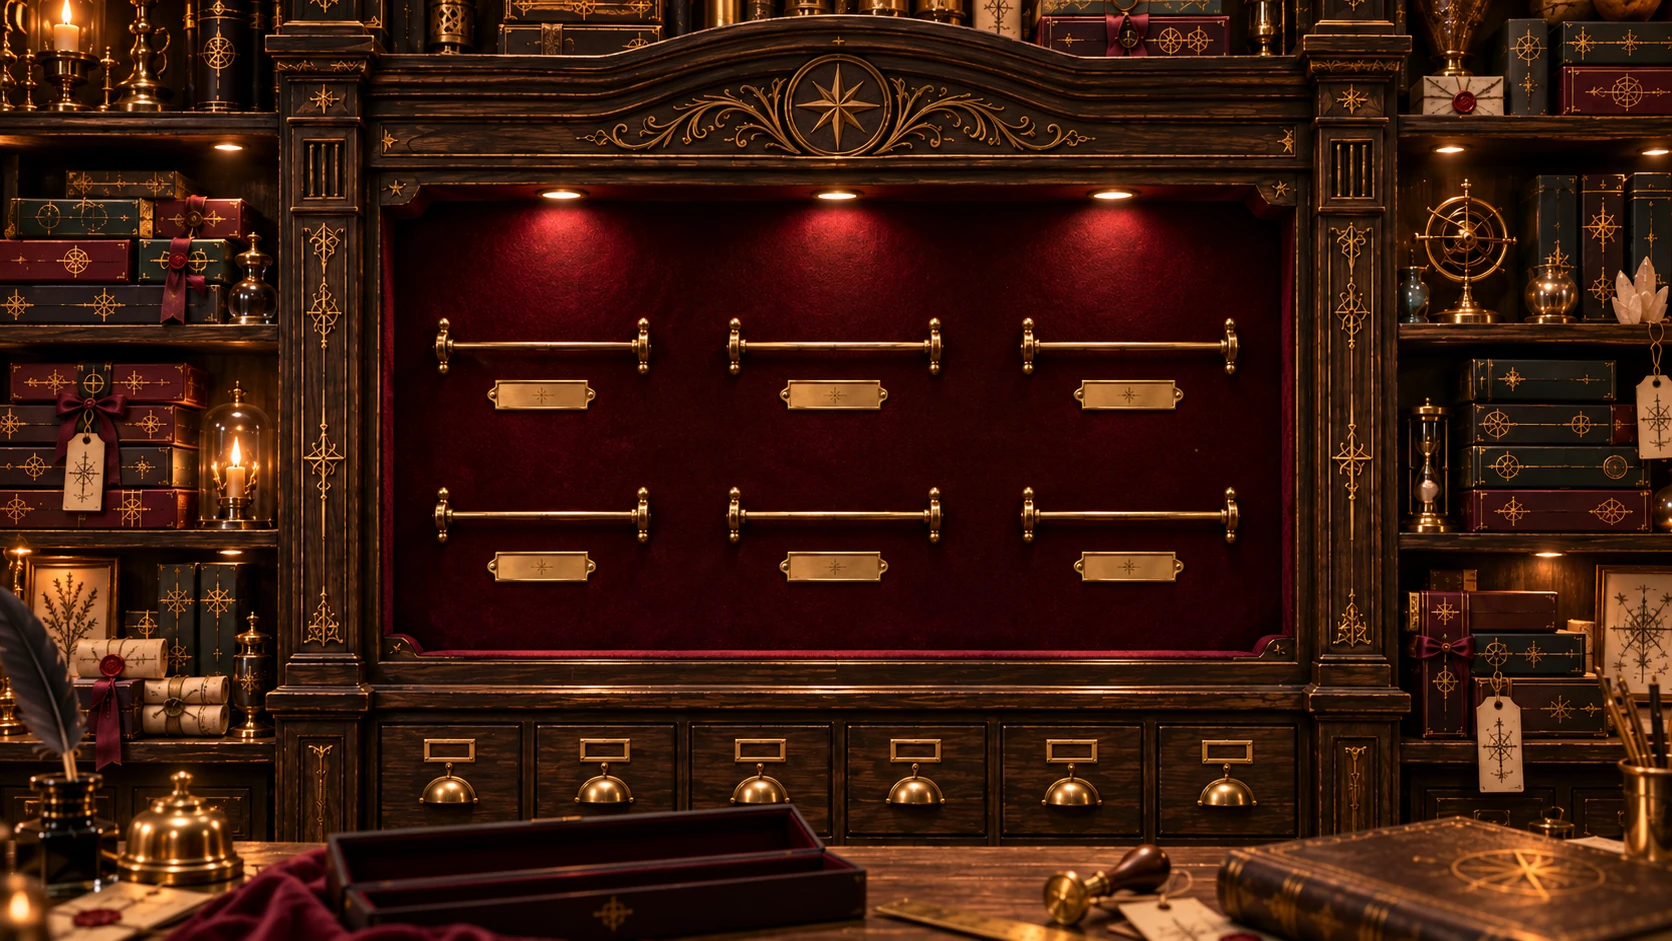
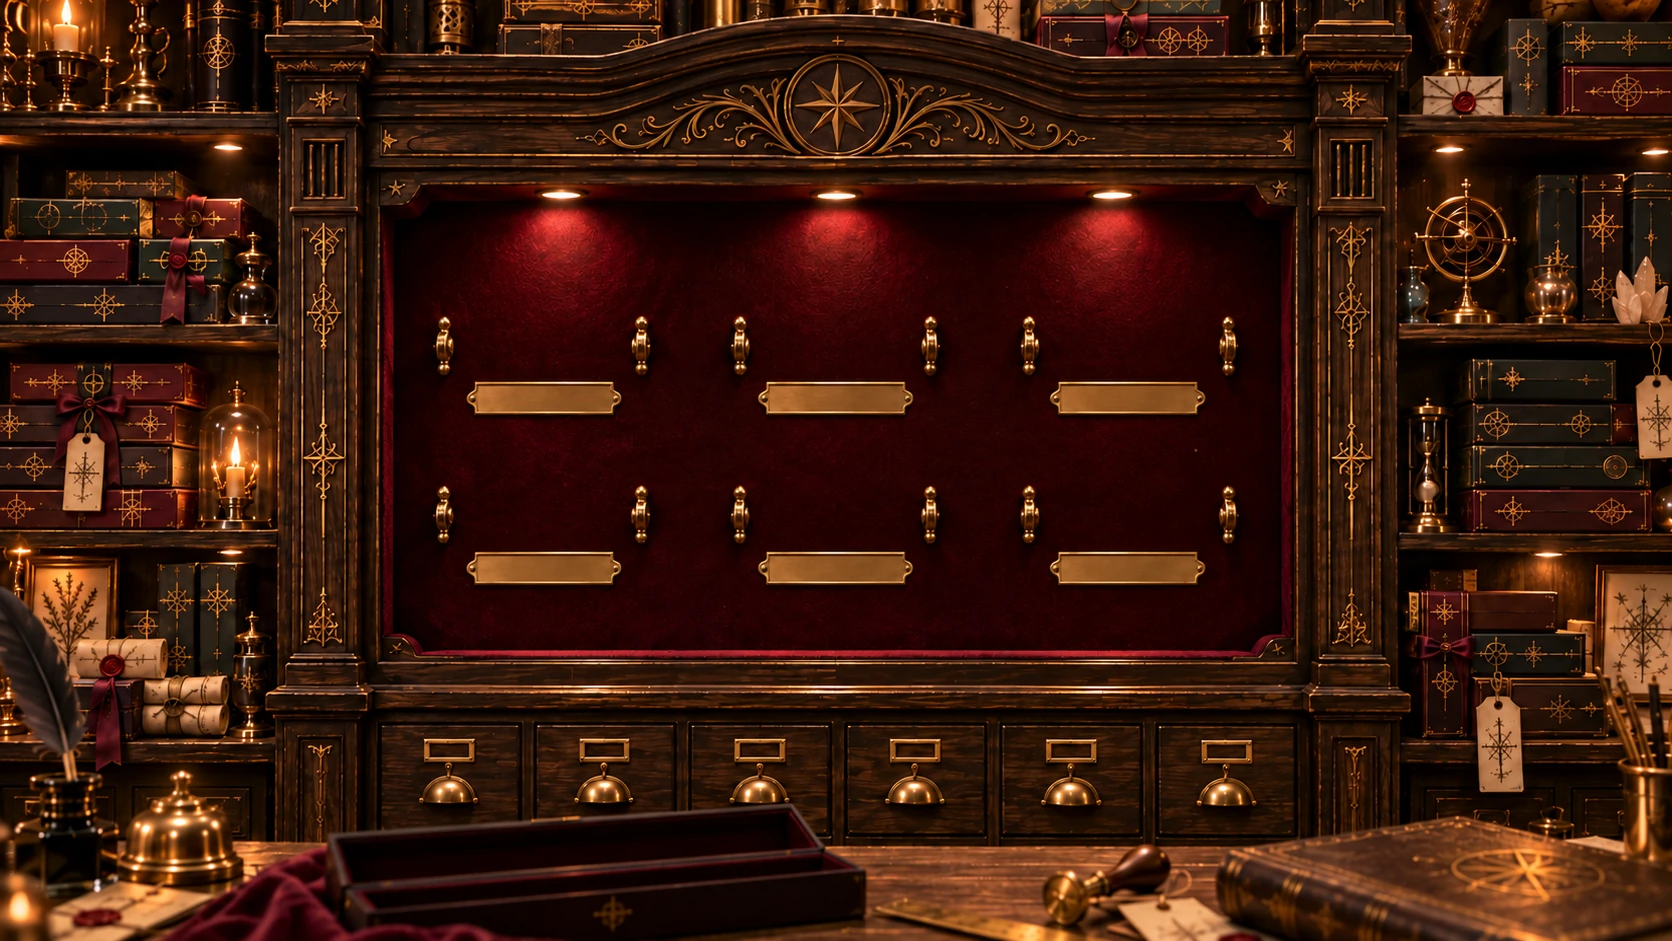
feat: finalize wand room product placement

diff --git a/src/components/rooms/WandRoom.tsx b/src/components/rooms/WandRoom.tsx
@@ -1,0 +1,33 @@
+"use client";
+
+import { useShop } from "@/components/shop/shop-provider";
+import { wands } from "@/data/wands";
+
+// Positions are percentages of the 1672 × 941 room artwork, aligned to the side supports.
+const WAND_PLACEMENTS: Record<string, { left: string; top: string; width: string }> = {
+  "varita-sombria": { left: "32.4%", top: "36.4%", width: "11.0%" },
+  "musgo-cambiante": { left: "49.8%", top: "36.4%", width: "10.6%" },
+  "aguja-del-alba": { left: "67.5%", top: "36.6%", width: "11.5%" },
+  "laurel-de-la-botica": { left: "32.4%", top: "54.6%", width: "11.3%" },
+  "vigilia-fosil": { left: "49.9%", top: "54.6%", width: "10.65%" },
+  "canto-de-espejo": { left: "67.55%", top: "54.7%", width: "11.1%" },
+};
+
+export function WandRoom() {
+  const { selectProduct } = useShop();
+
+  return (
+    <div className="wand-room">
+      {wands.map((wand) => (
+        <button
+          key={wand.id}
+          type="button"
+          className="wand-room__product"
+          style={{ ...WAND_PLACEMENTS[wand.id], backgroundImage: `url(${wand.image})` }}
+          aria-label={`Ver detalles de ${wand.name}`}
+          onClick={() => selectProduct(wand)}
+        />
+      ))}
+    </div>
+  );
+}

diff --git a/src/app/globals.css b/src/app/globals.css
@@ -150,6 +150,41 @@ button { font: inherit; }
   pointer-events: none;
 }
 
+.wand-room {
+  position: absolute;
+  top: 50%;
+  left: 50%;
+  width: max(100%, calc(100dvh * 1672 / 941));
+  aspect-ratio: 1672 / 941;
+  transform: translate(-50%, -50%);
+}
+
+.wand-room__product {
+  position: absolute;
+  z-index: 0;
+  aspect-ratio: 4 / 1;
+  padding: 0;
+  border: 0;
+  background: transparent center / 100% auto no-repeat;
+  cursor: pointer;
+  transform: translate(-50%, -50%);
+  transition: transform 180ms ease, filter 180ms ease;
+}
+
+.wand-room__product:hover {
+  filter: brightness(1.12) drop-shadow(0 0 5px rgba(235, 190, 105, 0.45));
+  transform: translate(-50%, -50%) scale(1.04);
+}
+
+.wand-room__product:focus-visible {
+  outline: 2px solid var(--cream);
+  outline-offset: 3px;
+}
+
+@media (prefers-reduced-motion: reduce) {
+  .wand-room__product { transition: none; }
+}
+
 .shop-interface {
   position: absolute;
   inset: 0;

diff --git a/src/components/shop/ShopExperience.tsx b/src/components/shop/ShopExperience.tsx
@@ -2,6 +2,7 @@
 
 import { useShop, type RoomId } from "@/components/shop/shop-provider";
 import { ShopInterface } from "@/components/shop/ShopInterface";
+import { WandRoom } from "@/components/rooms/WandRoom";
 
 const ROOM_DETAILS: Record<RoomId, { subtitle: string; title: string; scene: string }> = {
   wands: { subtitle: "PRIMER SALÓN", title: "VARITAS", scene: "/scenes/wands-room.webp" },
@@ -16,6 +17,7 @@ export function ShopExperience() {
   return (
     <main className="shop-experience" aria-label={`Sala actual: ${room.title}`}>
       <div className="shop-experience__scene" style={{ backgroundImage: `url(${room.scene})` }} aria-hidden="true" />
+      {currentRoom === "wands" && <WandRoom />}
       <ShopInterface subtitle={room.subtitle} title={room.title} />
     </main>
   );

diff --git a/docs/DEVELOPMENT_LOG.md b/docs/DEVELOPMENT_LOG.md
@@ -1,5 +1,29 @@
 # Development log
 
+## 2026-10-21 - Wands room alignment
+
+- Integrated the improved Wands room background: central support bars were removed from the artwork, and the brass nameplates were enlarged and cleaned. Visually reviewed and refined the six wand positions against the remaining side supports, including the portrait-canvas Canto de Espejo.
+- Files changed: `src/components/rooms/WandRoom.tsx`, `docs/PROJECT_STATUS.md`, and `docs/DEVELOPMENT_LOG.md`; the updated `public/scenes/wands-room.webp` was supplied beforehand.
+- Validation: `npm.cmd run lint`, `npx.cmd tsc --noEmit`, and `git diff --check`.
+
+## 2026-10-20 - Refine wand support alignment
+
+- Raised the wand placements slightly so they sit visually on the supports instead of covering them.
+- Files changed: `src/components/rooms/WandRoom.tsx`, `docs/PROJECT_STATUS.md`, and `docs/DEVELOPMENT_LOG.md`.
+- Validation: `npm.cmd run lint`, `npx.cmd tsc --noEmit`, and `git diff --check`.
+
+## 2026-10-20 - Remove wand glass overlay
+
+- Removed the provisional glass after visual review: it did not align precisely with the display frame and reduced visual consistency with the other rooms. The asset remains available.
+- Files changed: `src/components/rooms/WandRoom.tsx`, `src/app/globals.css`, `docs/PROJECT_STATUS.md`, and `docs/DEVELOPMENT_LOG.md`.
+- Validation: `npm.cmd run lint`, `npx.cmd tsc --noEmit`, and `git diff --check`.
+
+## 2026-10-20 - Wands room products
+
+- Added six artwork-relative wand controls with hover and keyboard focus, connected to the existing product selection state. Added a provisional, switchable glass foreground for visual review.
+- Files changed: `src/components/rooms/WandRoom.tsx`, `src/components/shop/ShopExperience.tsx`, `src/app/globals.css`, `docs/PROJECT_STATUS.md`, and `docs/DEVELOPMENT_LOG.md`.
+- Validation: checked the six wand assets and glass asset; `npm.cmd run lint`, `npx.cmd tsc --noEmit`, `git diff --check`, and `npm.cmd run build`.
+
 ## 2026-10-20 - Navigation arrow alignment
 
 - Raised both navigation arrows by another 3px using their shared offset in `src/app/globals.css`; updated `docs/PROJECT_STATUS.md`.
@@ -87,3 +111,15 @@
 - Wrapped App Router content with the client provider while retaining the root layout as a Server Component.
 - Files changed: `src/components/shop/shop-provider.tsx`, `src/app/layout.tsx`, `docs/PROJECT_STATUS.md`, `docs/DECISIONS.md`, and `docs/DEVELOPMENT_LOG.md`.
 - Validation: `npm run lint`, `npx tsc --noEmit`, and `git diff --check`.
+
+## 2026-10-21 - Individual wand placement refinement
+
+- Refined individual wand widths and horizontal positions around the existing layout, including the portrait-canvas Canto de Espejo; retained the existing vertical positions and interaction behavior.
+- Files changed: `src/components/rooms/WandRoom.tsx`, `docs/PROJECT_STATUS.md`, and `docs/DEVELOPMENT_LOG.md`.
+- Validation: `npm.cmd run lint`, `npx.cmd tsc --noEmit`, and `git diff --check`.
+
+## 2026-10-22 - Approved wand placement baseline
+
+- Recorded the improved Wands background, with central support bars removed and brass nameplates enlarged and cleaned. The six wand positions were manually fine-tuned in-browser; their current values are visually approved for this stage. The next task is adding wand names to the brass nameplates.
+- Inspected `src/components/rooms/WandRoom.tsx`, its typed product data, selection state, styles, and scene integration. Updated `docs/PROJECT_STATUS.md` and `docs/DEVELOPMENT_LOG.md` without changing the room or placements.
+- Validation: `npm.cmd run lint`, `npx.cmd tsc --noEmit`, `git diff --check`, and `npm.cmd run build`.

diff --git a/docs/PROJECT_STATUS.md b/docs/PROJECT_STATUS.md
@@ -1,6 +1,6 @@
 # Project status
 
-Last updated: 2026-10-20
+Last updated: 2026-10-22
 
 ## Current phase
 
@@ -18,6 +18,7 @@ Initial application architecture and product catalog.
 - Final visual assets are available: the exterior scene, three room scenes, three product-detail backgrounds, the wand glass overlay, and all 18 product images.
 - Exterior landing, animated shop entry, and the initial Wands-room shell are implemented using the existing global shop state.
 - A reusable persistent room interface displays the room title, available navigation controls, and cart count using the UI assets.
+- The improved Wands room background removes the central support bars and enlarges and cleans the empty brass nameplates. The six wand positions were manually fine-tuned in-browser and their current placement values are visually approved for this stage; no glass overlay is rendered.
 - The reusable UI asset set is available in `public/ui/` and ready for integration:
   - `room-title.webp`: room title frame with a small subtitle zone and a larger main title zone.
   - `nav-control.webp`: side navigation frame; its directional arrow is rendered separately.
@@ -31,16 +32,18 @@ Initial application architecture and product catalog.
 
 ## Next tasks
 
-- Implement the six interactive wand products in the Wands room.
+- Add the wand names to the brass nameplates.
+- Implement the wand product detail overlay and selection transition.
 - Add directional room transitions and the remaining interior interactions.
 
 ## Current application state
 
 - The root page renders the exterior until `hasEnteredShop` is set, then renders the current room.
 - `ShopExterior` uses the exterior asset as an immersive, cover-scaled background. Its panel text uses explicit block lines and constrained percentage widths to remain within the artwork's burgundy panels, while the keyboard-accessible invisible door hotspot and `Entrar` cartouche sit over the central door.
-- `ShopExperience` maps the current room to its background and title; the persistent interface navigates instantly between rooms using global state. The cart control toggles cart state and displays its count, but the cart panel is not implemented. Products and detail overlays are not yet rendered.
+- `ShopExperience` maps the current room to its background and title; the persistent interface navigates instantly between rooms using global state. The Wands room uses centralized, individually refined artwork-relative product placements and sets `selectedProduct` on selection; detail overlays are not yet rendered. The cart control toggles cart state and displays its count, but the cart panel is not implemented.
 - Persistent interface sizing and alignment are adjustable through CSS variables: navigation and cart frames are scaled up, navigation arrows use a -6px vertical offset, and room subtitles sit lower within their labels.
-- The final asset set is complete enough to begin visual implementation. `canto-de-espejo.webp` uses a 1122x1402 portrait canvas, unlike the wider wand canvases, so its alignment needs review when composing the Wands room.
+- `canto-de-espejo.webp` uses a 1122x1402 portrait canvas; its image remains centered and sized by width within the wand control, and its placement was visually reviewed with the other wands.
+- The provisional wand glass was intentionally removed after visual review because it did not align precisely with the display frame and reduced consistency with the other rooms. The asset remains in `public/overlays/`.
 
 ## Known issues
 
